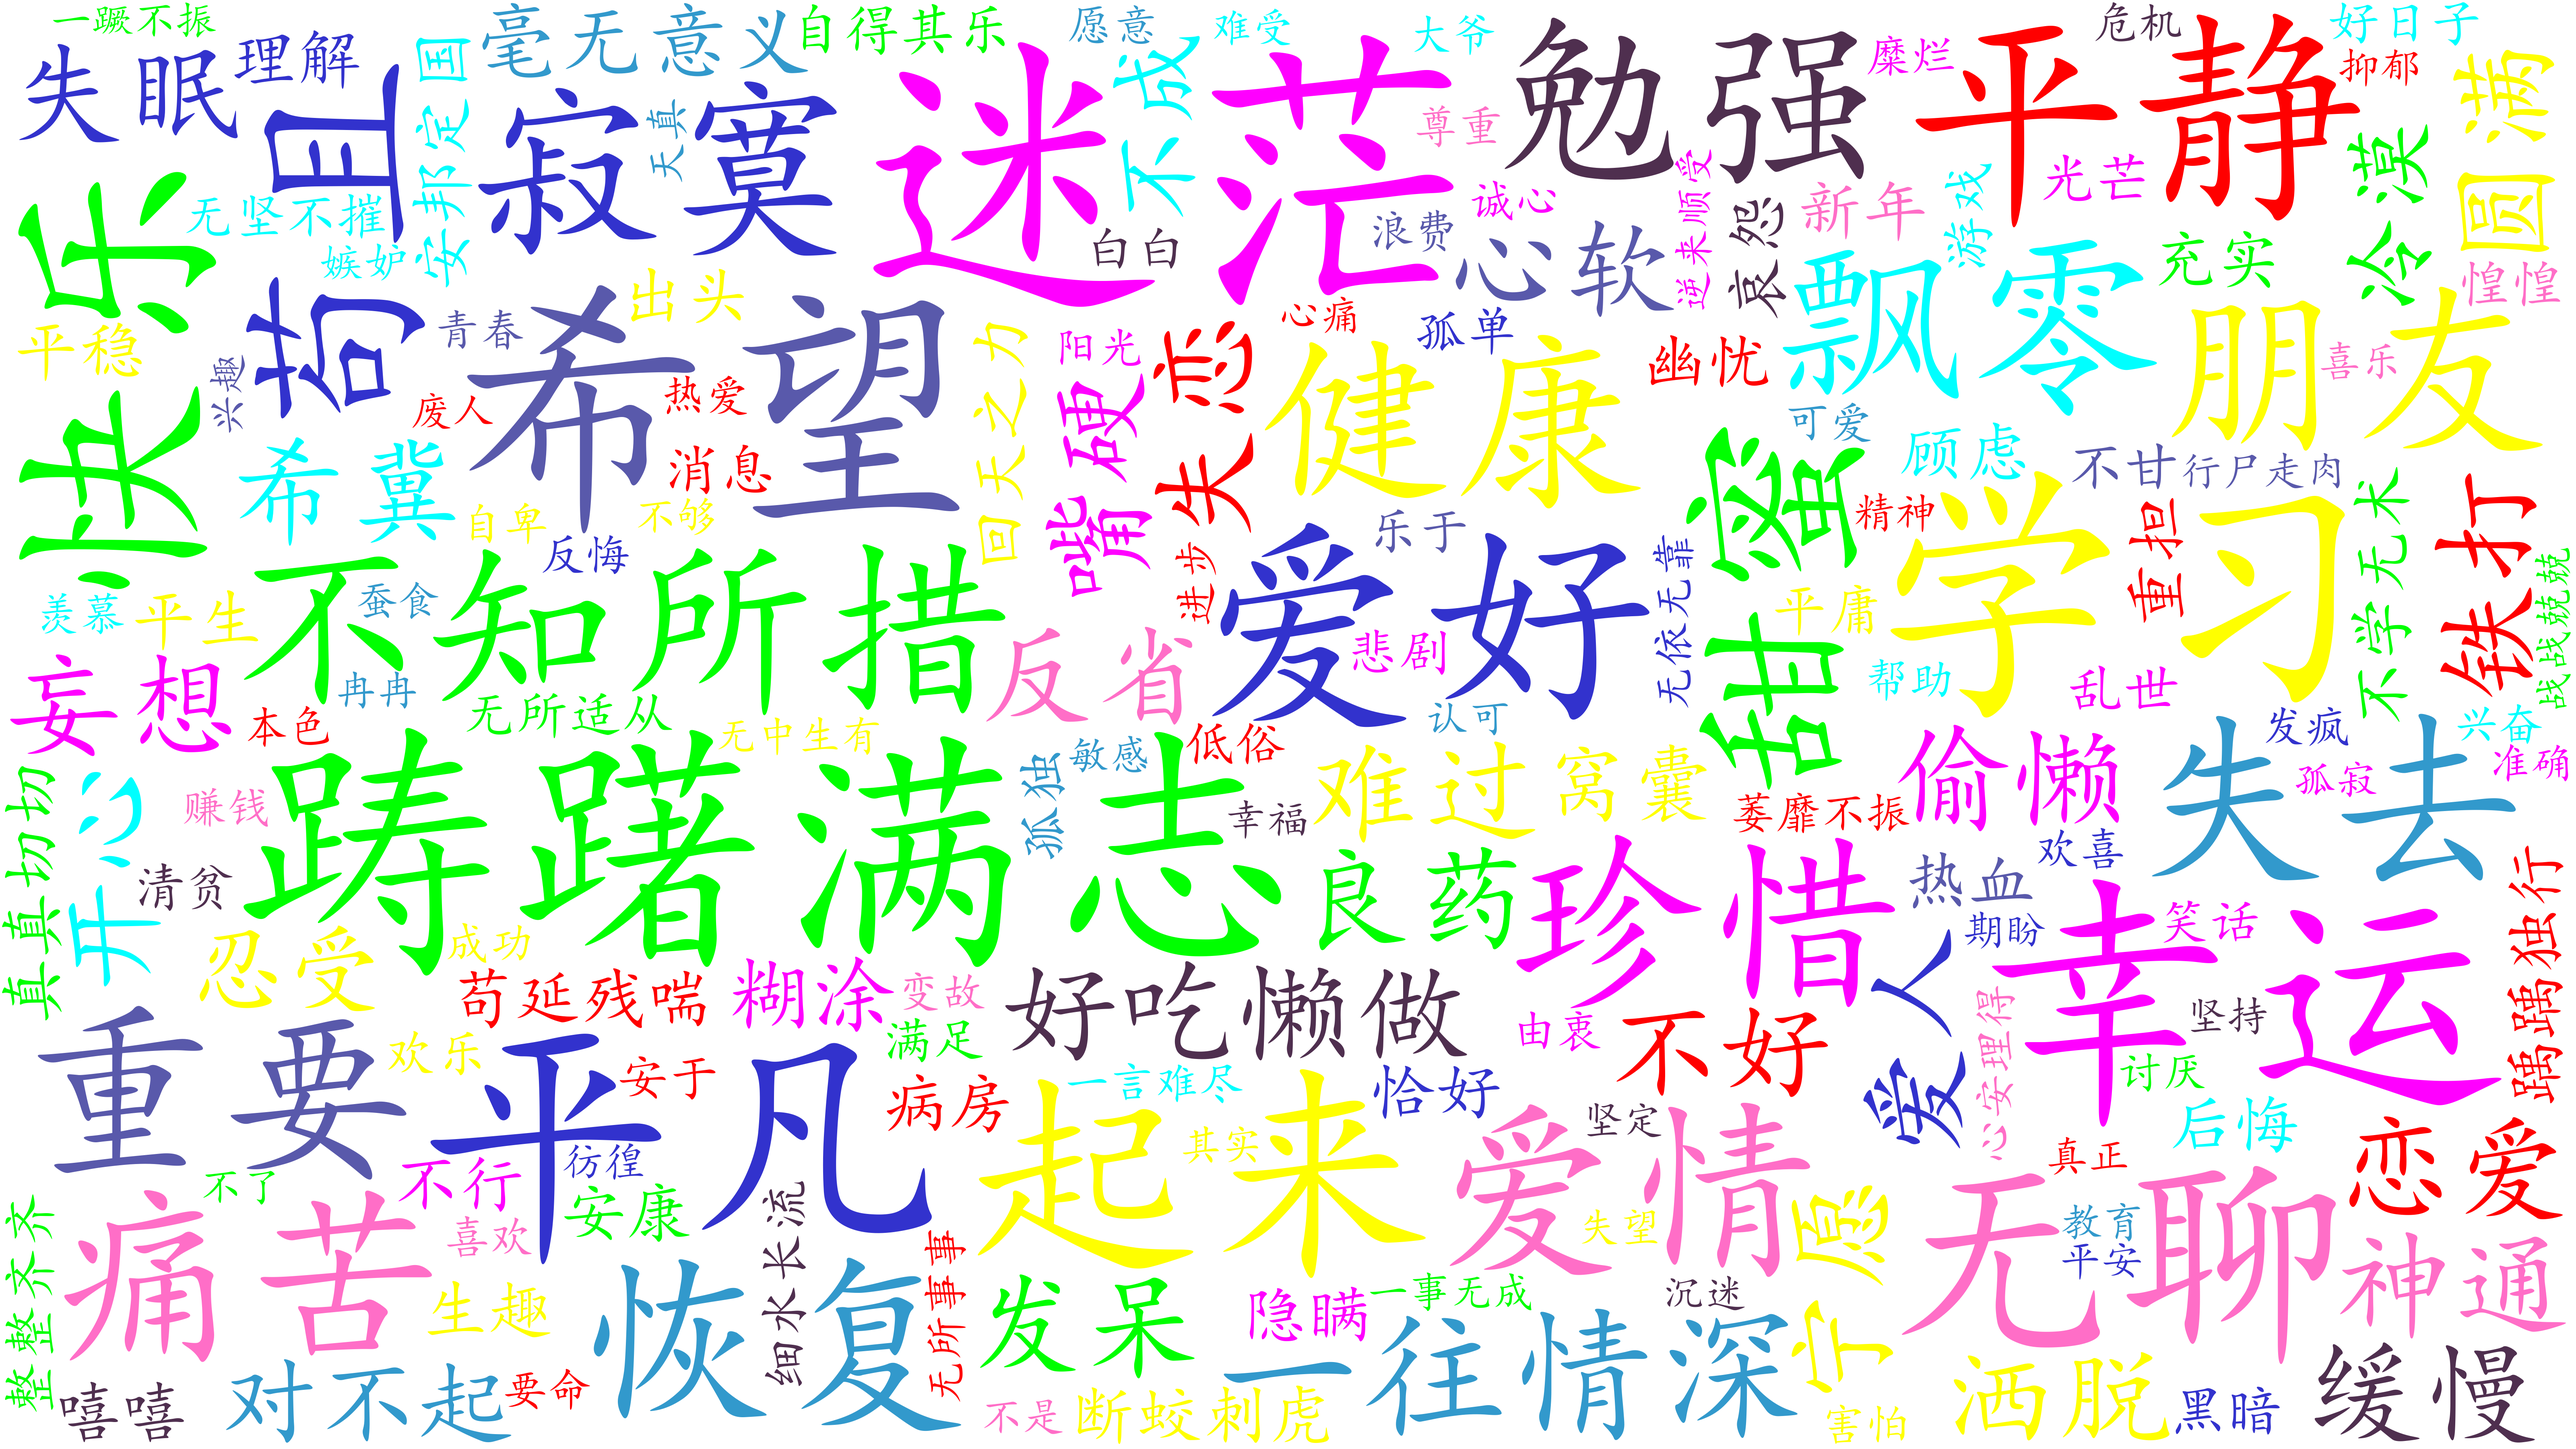
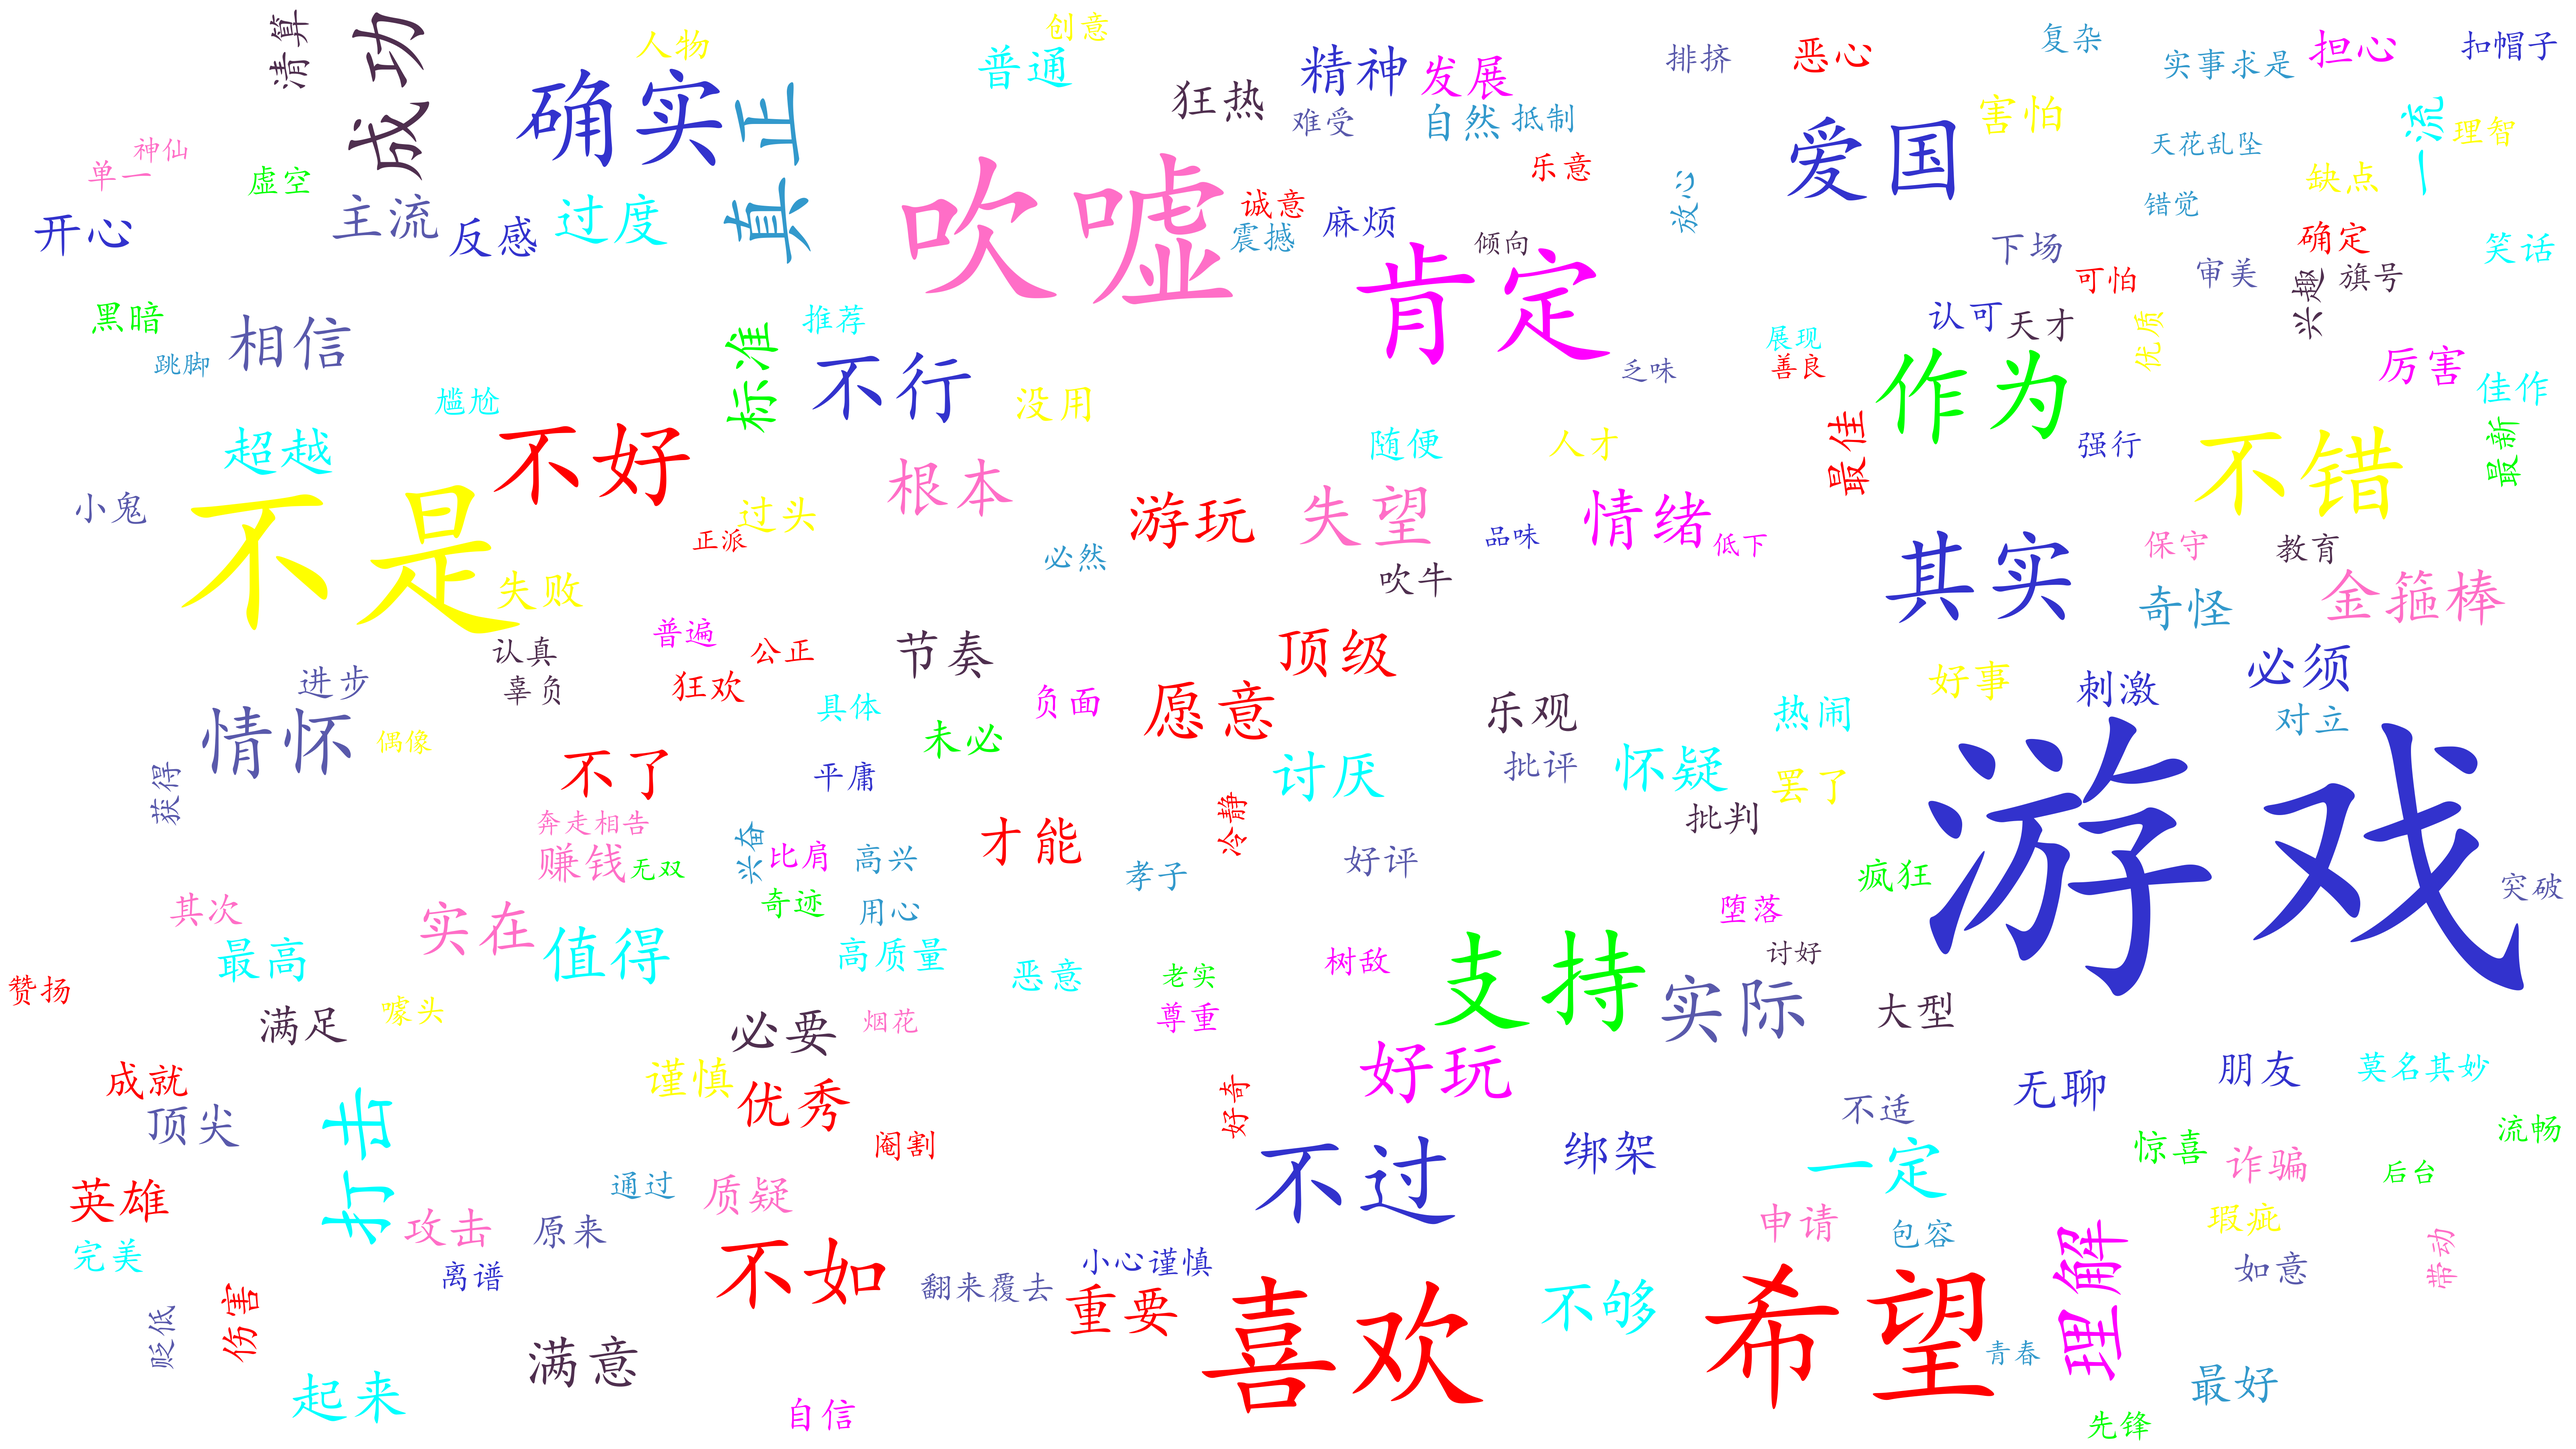
生成worddocx

Changed region(s): [[0.0, 0.0, 1.0, 0.9956]]

diff --git a/src/geneaitical/draw_picture/zhihu_new_top.py b/src/geneaitical/draw_picture/zhihu_new_top.py
@@ -6,14 +6,15 @@ sys.path.append("D:\planself\workspace\language_tools\src\geneaitical\splider\\u
 import db_mysql
 sys.path.append("D:\planself\workspace\language_tools\src\geneaitical\emo")
 import emo_utils
+sys.path.append("D:\planself\workspace\language_tools\src\geneaitical\word")
+import generate_word
 import random
 import datetime
 from faker import Faker
 import jieba
 
-
-def draw_zhihu_top(keyword):
-    news_list = db_mysql.getTopZhihu("zhihu",200, keyword)
+def draw_zhihu_cloud_pic(keyword):
+    news_list = db_mysql.getTopZhihu("zhihu", 1000, keyword)
     count = 0
     printFlag = False
     data = {}
@@ -22,7 +23,7 @@ def draw_zhihu_top(keyword):
         print('[' + str(count) + ']' + news_info[0])
         if printFlag == False:
             data['news'] = news_info[0]
-            data['name'] = keyword +'_' + str(count + 40)
+            data['name'] = keyword + '_' + str(count + 40)
             data['new_time'] = random_datetime()
             data['new_location'] = random_chinese_province()
             data['vote_count'] = str(news_info[2])
@@ -36,20 +37,41 @@ def draw_zhihu_top(keyword):
             for str22 in ans_temp.split(","):
                 if emo_utils.emo_contain_flag(str22):
                     answerArray.append(str22)
-            # draw_pic.niuComment(data)
-            data = {}
-        # else:
-        #     comment = {}
-        #     comment['content']=news_info[0]
-        #     comment['user_name']=news_info[1]
-        #     comment['create_time']=news_info[4]
-        #     comment['location']=random_chinese_province()
-        #     data['comment'] = comment
-        #     draw_pic.niuComment(data)
-        #     data={}
-        #     printFlag = False
         count = count + 1
     draw_chart.drawCloudPic(answerArray)
+
+def draw_zhihu_top(keyword):
+    news_list = db_mysql.getTopZhihu("zhihu",10, keyword)
+    count = 0
+    printFlag = False
+    data = {}
+    for news_info in news_list:
+        print('[' + str(count) + ']' + news_info[0])
+        if printFlag == False:
+            data['news'] = news_info[0]
+            data['name'] = keyword +'_' + str(count + 40)
+            data['new_time'] = random_datetime()
+            data['new_location'] = random_chinese_province()
+            data['vote_count'] = str(news_info[2])
+            data['comment_flag'] = False
+            if int(news_info[3]) == 0:
+                data['comment_count'] = str(news_info[3])
+            else:
+                data['comment_count'] = int(random.random() * 250)
+            draw_pic.niuComment(data)
+        count = count + 1
+
+def get_keywords_docx(keyword):
+    comments = ''
+    start_word = ''
+    end_word = ''
+    comments_array = comments.split("*")
+    news_list = db_mysql.getTopZhihu("zhihu", 10, keyword)
+    pic_path_array = []
+    for i in range(len(news_list)):
+        pic_path_array.append("D:\planself\workspace\language_tools\src\geneaitical\draw_picture\picture\\"+keyword+"_"+str(i)+".png")
+    generate_word.generate_word(keyword, start_word, comments_array, pic_path_array, end_word)
+
 def random_chinese_province():
     provinces = [
         '广东', '北京', '上海', '天津', '江苏', '浙江', '四川', '湖北', '湖南', '江西',
@@ -71,4 +93,4 @@ def random_datetime():
     return time_str
 
 if __name__ == '__main__':
-    draw_zhihu_top("一句话形容你现在的生活")
+    draw_zhihu_top("如何看待黑神话悟空")

diff --git a/src/geneaitical/word/generate_word.py b/src/geneaitical/word/generate_word.py
@@ -1,0 +1,61 @@
+from docx import Document
+from docx.enum.text import WD_BREAK
+from docx.shared import RGBColor, Inches
+from docx.shared import Pt
+from docx.oxml.ns import nsdecls
+from docx.oxml import parse_xml
+
+def test_docx(name):
+    # 实例化doc对象
+    document = Document()
+
+    # 标题
+    document.add_heading('这是一级标题')
+    document.add_heading('这是二级标题', level=2)
+    # 正文
+    document.add_paragraph('  我把话放在这里，这游戏铁定不好玩，都是一波病毒式营销带起来的。中国人根本没能力开发这种游戏。不信你就往我duanceng0417的账户里送一份，你看我玩不玩。')
+    # 插入图片
+    document.add_picture(r'D:\planself\workspace\language_tools\src\geneaitical\draw_picture\picture\一句话概括人生_0.png', width=Inches(4))
+
+    # 插入内置的项目符号
+    list_style = document.styles.add_style('ListStyle', 1)
+    list_style.paragraph_format.left_indent = Pt(20)  # 设置缩进
+    list_style.paragraph_format.space_after = Pt(6)  # 设置段后间距
+    list_style.font.name = 'Arial'  # 设置字体
+    list_style.font.size = Pt(12)  # 设置字号
+    list_style.font.color.rgb = RGBColor(0x00, 0x00, 0x00)  # 设置字体颜色
+
+    document.add_paragraph('❤  说的不错', style='ListStyle')
+    document.add_picture(r'D:\planself\workspace\language_tools\src\geneaitical\draw_picture\picture\一句话概括人生_0.png',width=Inches(6))
+    document.add_paragraph('❤  嗯，是这样', style='ListStyle')
+    document.add_picture(r'D:\planself\workspace\language_tools\src\geneaitical\draw_picture\picture\一句话概括人生_0.png',width=Inches(6))
+    document.add_paragraph('❤  对，就是这样', style='ListStyle')
+    document.add_picture(r'D:\planself\workspace\language_tools\src\geneaitical\draw_picture\picture\一句话概括人生_0.png',width=Inches(6))
+
+    # 保存
+    document.save(name)
+
+def generate_word(keywords, start_word, comments, pic_paths, end_word):
+    document = Document()
+    # 书写前言
+    document.add_paragraph("  " + start_word)
+
+    # 插入图片
+    list_style = document.styles.add_style('ListStyle', 1)
+    list_style.paragraph_format.left_indent = Pt(20)  # 设置缩进
+    list_style.paragraph_format.space_after = Pt(6)  # 设置段后间距
+    list_style.font.name = 'Arial'  # 设置字体
+    list_style.font.size = Pt(12)  # 设置字号
+    list_style.font.color.rgb = RGBColor(0x00, 0x00, 0x00)  # 设置字体颜色
+    for i in range(len(comments)):
+        comment = comments(i)
+        pic_path = pic_paths(i)
+        document.add_paragraph('❤  ' + comment, style='ListStyle')
+        document.add_picture(pic_path, width=Inches(6))
+    # 书写结尾
+    document.add_paragraph("  " + end_word)
+    # 保存
+    document.save(keywords + '.docx')
+
+if __name__ == '__main__':
+    test_docx("test.docx")

diff --git a/src/geneaitical/splider/zhihu/zhihu_splide.py b/src/geneaitical/splider/zhihu/zhihu_splide.py
@@ -57,8 +57,10 @@ def start_spilder(keyword, qusId,  path):
                     comment_count = data['target']['comment_count']
                     user_name=data['target']['author']['name']
                     user_id=data['target']['author']['id']
+                    create_time = data['target']['created_time']
+                    print(create_time)
                     #保存数据库
-                    news_data = [keyword, keyword, answer, user_id, TIMESTRF, qusId, answer_id, "zhihu", comment_count, vote_count, user_name]
+                    news_data = [keyword, keyword, answer, user_id, int(create_time), qusId, answer_id, "zhihu", comment_count, vote_count, user_name]
                     print(news_data)
                     newid = db_mysql.insert_zhihu(news_data)
                     # 处理评论
@@ -166,4 +168,4 @@ def spilder_comment(answer_id):
             print("捕获到comment异常：", str(e))
 
 if __name__ == '__main__':
-    start_spilder("一句话形容你现在的生活","55060176", "api/v4/questions/55060176/feeds/1724154910258711697")
+    start_spilder("如何看待黑神话悟空","415934275", "api/v4/questions/415934275/feeds/1724229893143898403")

diff --git a/src/geneaitical/chart/draw_chart.py b/src/geneaitical/chart/draw_chart.py
@@ -69,12 +69,12 @@ def drawCloudPic(report_words):
     # 调用颜色数组
     colormap = colors.ListedColormap(color_list)
     stopwords = set(STOPWORDS)
-    stopwords.update(["的", "感谢", "我代表", "以上", "报告", "表示诚挚感谢", "战略", "，", "我", "的"])
+    stopwords.update(["的", "感谢", "我代表", "以上", "报告", "表示诚挚感谢", "战略", "，", "我", "的","游戏"])
     # 设置字体大小
     max_font_size = 200
     min_font_size = 10
     # 统计高频词汇
-    result = Counter(report_words).most_common(200)  # 词的个数
+    result = Counter(report_words).most_common(300)  # 词的个数
     # 建立词汇字典
     content = dict(result)
     wordcloud = WordCloud(scale=4,  # 输出清晰度

diff --git a/src/geneaitical/draw_picture/draw_pic.py b/src/geneaitical/draw_picture/draw_pic.py
@@ -59,10 +59,10 @@ def niuComment(data):
         dr.text((20, new_h + 44), comment_text, font=comment_font, fill="#000000")    # 存储图片到本地路径/w2p.png
     save_path = os.getcwd()
     if (os.path.exists(save_path)):
-        save_path = save_path + "/" + name + ".png"
+        save_path = save_path + "/picture/" + name + ".png"
     else:
         os.mkdir(save_path)
-        save_path = save_path + "/" + name + ".png"
+        save_path = save_path + "/picture/" + name + ".png"
     im.save(save_path)
 
 
